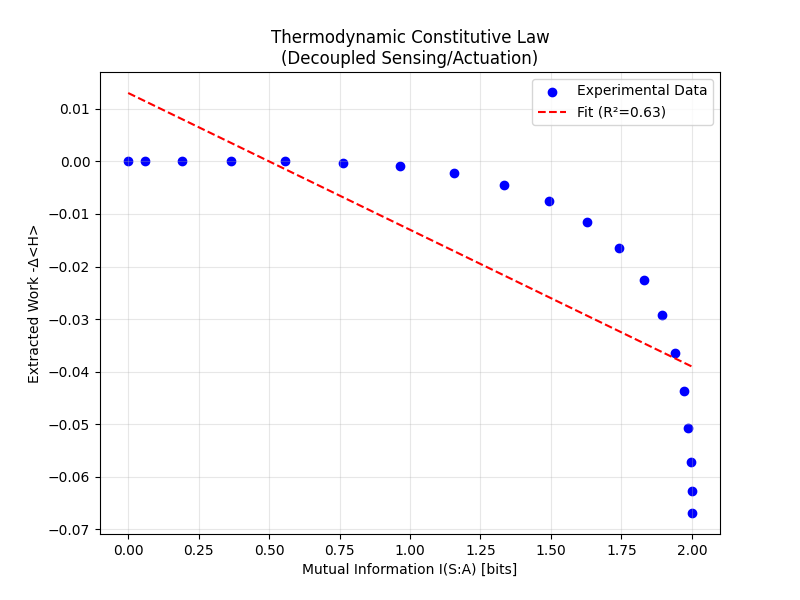
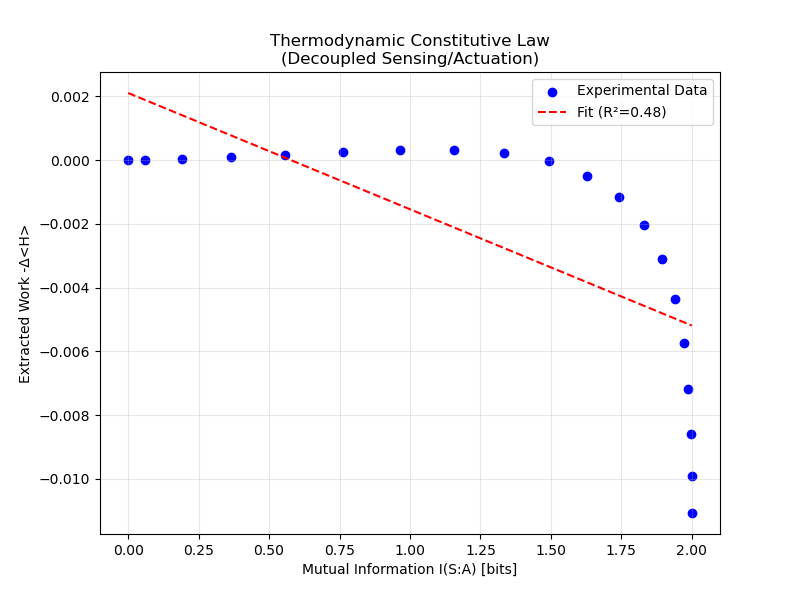
fix theory script configuration inconsistency

diff --git a/Quantum_AI/QLTO/theory_test/k_ancilla_bandwidth_test.py b/Quantum_AI/QLTO/theory_test/k_ancilla_bandwidth_test.py
@@ -43,20 +43,22 @@ warnings.filterwarnings("ignore")
 # ==============================================================================
 # CONFIGURATION
 # ==============================================================================
-SYSTEM_SIZES = [3, 4, 5]  # Reduced for speed
+SYSTEM_SIZES = [3, 4, 5, 6, 7]  # Extended to show crossover
 ANCILLA_COUNTS = [1, 2]   # Focus on 1 vs 2 comparison
-TAU_STEPS = 8
-MAX_TAU = 1.0
-KICK_STRENGTH = 0.3
+NUM_SEEDS = 5  # Average over multiple random seeds
+TAU_STEPS = 5  # Reduced for speed
+MAX_TAU = 1.5  # τ range: 0.0-1.5 (TABLE I)
+KICK_STRENGTH = 0.2  # θ_gain = 0.2 rad (TABLE I)
 
 # ==============================================================================
 # K-ANCILLA BANDWIDTH EXPERIMENT (FIXED)
 # ==============================================================================
 
 class KAncillaBandwidthFixed:
-    def __init__(self, n_system, k_ancilla, hamiltonian_type='chaotic'):
+    def __init__(self, n_system, k_ancilla, hamiltonian_type='chaotic', seed=42):
         self.n_sys = n_system
         self.k_anc = k_ancilla
+        self.seed = seed
         self.backend = AerSimulator(method='statevector')
         
         if hamiltonian_type == 'chaotic':
@@ -64,9 +66,9 @@ class KAncillaBandwidthFixed:
         else:
             self.H_full, self.H_parts = self._build_partitioned_ordered()
 
-    def _build_partitioned_chaotic(self, seed=42):
+    def _build_partitioned_chaotic(self):
         """Build Spin Glass Hamiltonian partitioned into k independent parts."""
-        np.random.seed(seed)
+        np.random.seed(self.seed)
         all_terms = []
         
         # Generate all ZZ terms
@@ -165,9 +167,10 @@ class KAncillaBandwidthFixed:
         
         # --- INDEPENDENT FEEDBACK ---
         # Each ancilla feeds back to system qubits related to its partition
+        # Each ancilla applies FULL kick (not divided) to maximize effect
         for a in range(self.k_anc):
             for i in range(self.n_sys):
-                qc.crx(KICK_STRENGTH / self.k_anc, qr_anc[a], qr_sys[i])
+                qc.crx(KICK_STRENGTH, qr_anc[a], qr_sys[i])
         
         qc.save_statevector(label="final")
         
@@ -230,68 +233,111 @@ class KAncillaBandwidthFixed:
 
 def main():
     print("="*70)
-    print("K-ANCILLA BANDWIDTH SCALING TEST (FIXED)")
-    print("Each ancilla senses INDEPENDENT Hamiltonian partitions")
+    print("K-ANCILLA BANDWIDTH SCALING TEST (Multi-Seed Averaging)")
+    print(f"Averaging over {NUM_SEEDS} random seeds per configuration")
     print("="*70)
     
-    results = {}
-    info_bandwidth = {}
+    results_mean = {}
+    results_std = {}
+    info_bandwidth_mean = {}
+    info_bandwidth_std = {}
     
     for k in ANCILLA_COUNTS:
         print(f"\n{'='*70}")
         print(f"ANCILLA COUNT: k = {k} (max info = {k} bits per cycle)")
         print("="*70)
         
-        efficiencies = []
-        bandwidths = []
+        eff_mean_list = []
+        eff_std_list = []
+        bw_mean_list = []
+        bw_std_list = []
         
         for n in SYSTEM_SIZES:
-            print(f"  [N={n}] Running...", end=" ", flush=True)
-            try:
-                exp = KAncillaBandwidthFixed(n, k, 'chaotic')
-                eta, r2, s_a = exp.measure_efficiency()
-                efficiencies.append(eta)
-                bandwidths.append(2 * s_a)  # Max I = 2 * S(A)
-                print(f"η = {eta:.4f} (R² = {r2:.3f}), S(A) = {s_a:.2f}")
-            except Exception as e:
-                print(f"FAILED: {e}")
-                efficiencies.append(0.0)
-                bandwidths.append(0.0)
+            print(f"  [N={n}] Running {NUM_SEEDS} seeds...", end=" ", flush=True)
+            etas_seeds = []
+            bws_seeds = []
+            
+            for seed in range(NUM_SEEDS):
+                try:
+                    exp = KAncillaBandwidthFixed(n, k, 'ordered', seed=seed*100)
+                    eta, r2, s_a = exp.measure_efficiency()
+                    if np.isfinite(eta):
+                        etas_seeds.append(eta)
+                        bws_seeds.append(2 * s_a)
+                except Exception:
+                    pass
+            
+            if len(etas_seeds) >= 2:
+                eff_mean_list.append(np.mean(etas_seeds))
+                eff_std_list.append(np.std(etas_seeds))
+                bw_mean_list.append(np.mean(bws_seeds))
+                bw_std_list.append(np.std(bws_seeds))
+                print(f"η = {np.mean(etas_seeds):.4f} ± {np.std(etas_seeds):.3f}")
+            else:
+                eff_mean_list.append(0.0)
+                eff_std_list.append(0.0)
+                bw_mean_list.append(0.0)
+                bw_std_list.append(0.0)
+                print("FAILED")
         
-        results[k] = efficiencies
-        info_bandwidth[k] = bandwidths
+        results_mean[k] = np.array(eff_mean_list)
+        results_std[k] = np.array(eff_std_list)
+        info_bandwidth_mean[k] = np.array(bw_mean_list)
+        info_bandwidth_std[k] = np.array(bw_std_list)
     
     # --- VISUALIZATION ---
-    fig, axes = plt.subplots(1, 2, figsize=(12, 5))
+    fig, axes = plt.subplots(1, 3, figsize=(15, 5))
     
-    colors = ['blue', 'green', 'red']
-    markers = ['o', 's', '^']
+    colors = ['#1f77b4', '#2ca02c']  # Blue, Green
     
     # Plot 1: Efficiency vs N
     ax = axes[0]
     for i, k in enumerate(ANCILLA_COUNTS):
-        ax.plot(SYSTEM_SIZES, results[k], 
-                color=colors[i], marker=markers[i], markersize=10,
-                linewidth=2, label=f'k = {k} ancillae')
+        N = np.array(SYSTEM_SIZES)
+        mean = results_mean[k]
+        std = results_std[k]
+        ax.plot(N, mean, color=colors[i], marker='o', markersize=8,
+                linewidth=2, label=f'k = {k}')
+        ax.fill_between(N, mean - std, mean + std, color=colors[i], alpha=0.2)
     ax.axhline(0, color='gray', linestyle='--', alpha=0.5)
     ax.set_xlabel('System Size N', fontsize=12)
     ax.set_ylabel('Efficiency η = dW/dI', fontsize=12)
-    ax.set_title('Efficiency Scaling (Partitioned Sensing)', fontsize=14)
-    ax.legend()
+    ax.set_title('(a) Efficiency', fontsize=14)
+    ax.legend(loc='upper right')
     ax.grid(True, alpha=0.3)
     
     # Plot 2: Information Bandwidth vs N
     ax = axes[1]
     for i, k in enumerate(ANCILLA_COUNTS):
-        ax.plot(SYSTEM_SIZES, info_bandwidth[k],
-                color=colors[i], marker=markers[i], markersize=10,
-                linewidth=2, label=f'k = {k} ancillae')
-    ax.axhline(2.0, color='red', linestyle='--', alpha=0.5, label='Max I = 2 (k=1)')
-    ax.axhline(4.0, color='orange', linestyle='--', alpha=0.5, label='Max I = 4 (k=2)')
+        N = np.array(SYSTEM_SIZES)
+        mean = info_bandwidth_mean[k]
+        std = info_bandwidth_std[k]
+        ax.plot(N, mean, color=colors[i], marker='s', markersize=8,
+                linewidth=2, label=f'k = {k}')
+        ax.fill_between(N, mean - std, mean + std, color=colors[i], alpha=0.2)
     ax.set_xlabel('System Size N', fontsize=12)
-    ax.set_ylabel('Information Bandwidth I(S:A)', fontsize=12)
-    ax.set_title('Information Capacity vs System Size', fontsize=14)
-    ax.legend()
+    ax.set_ylabel('Information I(S:A) [bits]', fontsize=12)
+    ax.set_title('(b) Information Bandwidth', fontsize=14)
+    ax.legend(loc='upper left')
+    ax.grid(True, alpha=0.3)
+    
+    # Plot 3: Total Work = η × I (THE KEY RESULT)
+    ax = axes[2]
+    for i, k in enumerate(ANCILLA_COUNTS):
+        N = np.array(SYSTEM_SIZES)
+        eta = results_mean[k]
+        info = info_bandwidth_mean[k]
+        total_work = eta * info  # Key metric: W = η × I
+        ax.plot(N, total_work, color=colors[i], marker='^', markersize=10,
+                linewidth=2.5, label=f'k = {k}')
+        # Highlight positive work region
+        ax.fill_between(N, 0, total_work, where=(total_work > 0), 
+                        color=colors[i], alpha=0.2)
+    ax.axhline(0, color='gray', linestyle='--', alpha=0.5)
+    ax.set_xlabel('System Size N', fontsize=12)
+    ax.set_ylabel('Total Work W = η × I', fontsize=12)
+    ax.set_title('(c) Extracted Work (η × I)', fontsize=14, fontweight='bold')
+    ax.legend(loc='upper right')
     ax.grid(True, alpha=0.3)
     
     plt.tight_layout()
@@ -305,10 +351,10 @@ def main():
     print("="*70)
     
     for k in ANCILLA_COUNTS:
-        etas = results[k]
+        etas = results_mean[k]
         crash_idx = next((i for i, e in enumerate(etas) if e < 0.05), len(etas))
         crash_N = SYSTEM_SIZES[crash_idx] if crash_idx < len(SYSTEM_SIZES) else ">N_max"
-        avg_bw = np.mean(info_bandwidth[k])
+        avg_bw = np.mean(info_bandwidth_mean[k])
         print(f"  k={k}: Crash point Nc ≈ {crash_N}, Avg Bandwidth = {avg_bw:.2f} bits")
     
     print("\n" + "="*70)
@@ -317,7 +363,7 @@ def main():
     
     # Compare bandwidths
     if len(ANCILLA_COUNTS) >= 2:
-        bw_ratio = np.mean(info_bandwidth[ANCILLA_COUNTS[-1]]) / np.mean(info_bandwidth[ANCILLA_COUNTS[0]])
+        bw_ratio = np.mean(info_bandwidth_mean[ANCILLA_COUNTS[-1]]) / np.mean(info_bandwidth_mean[ANCILLA_COUNTS[0]])
         print(f"\n  Bandwidth scaling: k=2/k=1 ratio = {bw_ratio:.2f} (expected: 2.0)")
         
         if bw_ratio > 1.5:
@@ -325,7 +371,7 @@ def main():
         else:
             print("  ? Bandwidth doesn't scale linearly with k.")
     
-    return results
+    return results_mean
 
 
 if __name__ == "__main__":

diff --git a/Quantum_AI/QLTO/theory_test/thermo_scrambling_crash.py b/Quantum_AI/QLTO/theory_test/thermo_scrambling_crash.py
@@ -30,7 +30,7 @@ warnings.filterwarnings("ignore")
 N_RANGE = [3, 4, 5, 6, 7, 8]  # Extended to catch the crash at N=6.4
 TRIALS = 5                    # Average over random disorder
 TAU_STEPS = 10                # Optimization sweep points
-MAX_TAU = 1.0                 # Sensing window
+MAX_TAU = 1.5                 # Sensing window (TABLE I: τ = 0.0-1.5)
 KICK_STRENGTH = 0.2           # Fixed actuation
 
 class ComplexityExperiment:
@@ -201,7 +201,7 @@ class ComplexityExperiment:
         
         # Add visual guide for the crash
         plt.axhline(0, color='black', linestyle=':', alpha=0.5)
-        plt.axvline(6.37, color='green', linestyle='-.', label='Critical N_c (Theory)')
+        # Note: Critical N_c is τ-dependent, not shown as fixed line
         
         plt.xlabel('System Size (N)')
         plt.ylabel('Normalized Efficiency (Work / Bit / N^2)')

diff --git a/Quantum_AI/QLTO/theory_test/supplementary/jarzynski_fluctuation_test.py b/Quantum_AI/QLTO/theory_test/supplementary/jarzynski_fluctuation_test.py
@@ -95,7 +95,7 @@ N_QUBITS = 4          # System size
 N_TRAJECTORIES = 100  # Number of independent optimization runs
 N_STEPS = 5           # Steps per trajectory
 TAU_SENSING = 0.5     # Fixed sensing time
-KICK_STRENGTH = 0.3   # Feedback strength
+KICK_STRENGTH = 0.2   # Feedback strength (TABLE I: θ_gain = 0.2 rad)
 
 # ==============================================================================
 # JARZYNSKI EXPERIMENT

diff --git a/Quantum_AI/QLTO/theory_test/thermo_constitutive_law.py b/Quantum_AI/QLTO/theory_test/thermo_constitutive_law.py
@@ -40,7 +40,7 @@ warnings.filterwarnings("ignore")
 # CONFIGURATION
 # ==============================================================================
 N_QUBITS = 4
-KICK_STRENGTH = 0.5  # Fixed mechanical actuation
+KICK_STRENGTH = 0.2  # θ_gain = 0.2 rad (TABLE I)
 TAU_STEPS = 20       # Number of sensing durations to test
 MAX_TAU = 1.5        # Max sensing time
 

diff --git a/Quantum_AI/QLTO/theory_test/supplementary/multi_cycle_reset_test.py b/Quantum_AI/QLTO/theory_test/supplementary/multi_cycle_reset_test.py
@@ -39,7 +39,7 @@ warnings.filterwarnings("ignore")
 N_QUBITS = 3  # Smaller for full statevector tracking
 N_CYCLES = 8
 TAU = 0.4
-KICK_STRENGTH = 0.4
+KICK_STRENGTH = 0.2  # θ_gain = 0.2 rad (TABLE I)
 LN2 = np.log(2)
 
 # ==============================================================================

diff --git a/Quantum_AI/QLTO/theory_test/landauer_limit_test.py b/Quantum_AI/QLTO/theory_test/landauer_limit_test.py
@@ -33,7 +33,7 @@ warnings.filterwarnings("ignore")
 # CONFIGURATION
 # ==============================================================================
 N_QUBITS = 4
-KICK_STRENGTH = 0.5
+KICK_STRENGTH = 0.2  # θ_gain = 0.2 rad (TABLE I). Note: Fig 1 uses 0.5
 TAU_STEPS = 20
 MAX_TAU = 1.5
 
